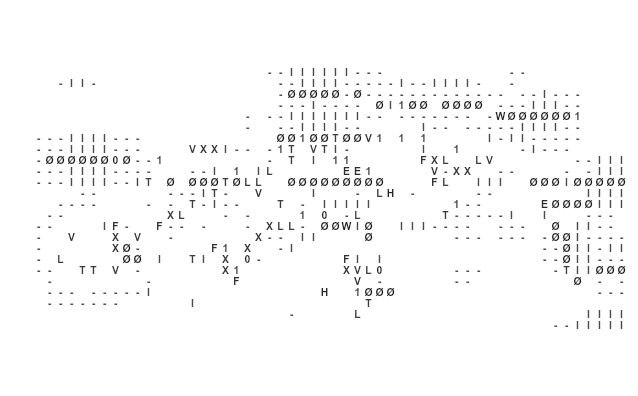
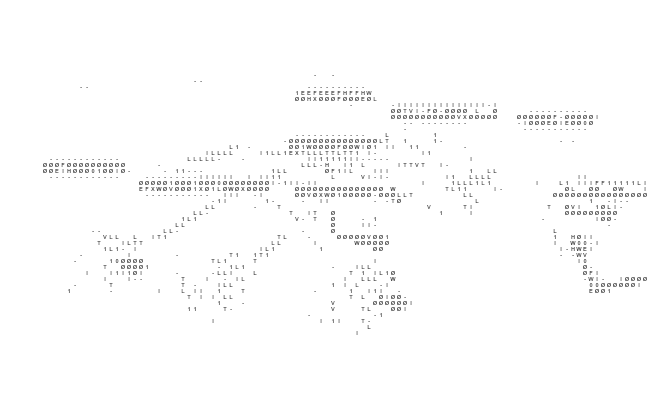
Resolve screenshot thumbnails with a finer grid
A before/after sheet at true card width (tools/before-after.mjs, added here)
made the honest verdict obvious: isolated photo subjects read well, but the
screenshot-based thumbnails were scattered marks rather than pictures.

The cause was grid resolution, not parameters. Screenshots carry their meaning
in fine detail, and at 58 columns that detail falls below the sampling grid.
Raising columns while lowering cell width keeps the output roughly the same
physical size while letting structure resolve:

  portfolio         150 cols  ->  "hey, i'm Ryan Wang" is legible
  waterloowash      130 cols  ->  phone frame and the "12" resolve
  canopi            120 cols  ->  map pill cluster resolves
  self-driving-car  110 cols  ->  costmap blobs and the path line resolve
  mars-rover        110 cols
  molehunt           90 cols

Isolated subjects (robot-hand, vex, card-dealer, smart-home, tronring) stay
coarse at 58. Their silhouette is the content; a fine grid turns them into a
grey photograph and loses the typographic character that made them work.

Changing the grid changes the output PNG size, and src/data/projects.ts
carries those dimensions so next/image can reserve layout. Six projects were
left with stale values, silently reintroducing the layout shift those fields
exist to prevent. Added tools/sync-dims.mjs to push real sizes into the data,
and R4b to verify-page.mjs so drift fails loudly instead of quietly. The
acceptance suite is now 8/8 against the running site.
[…]

diff --git a/src/data/projects.ts b/src/data/projects.ts
@@ -4,8 +4,8 @@ export const projects: Project[] = [
   {
     slug: "canopi",
     asciiSrc: "/assets/projects/canopi/ascii.png",
-    asciiWidth: 638,
-    asciiHeight: 484,
+    asciiWidth: 600,
+    asciiHeight: 450,
     category: "software" as const,
     imageSrc: "/assets/projects/canopi/canopi.png",
     imageWidth: 3839,
@@ -87,8 +87,8 @@ export const projects: Project[] = [
   {
     slug: "waterloowash",
     asciiSrc: "/assets/projects/waterloowash/ascii.png",
-    asciiWidth: 638,
-    asciiHeight: 847,
+    asciiWidth: 650,
+    asciiHeight: 865,
     category: "software" as const,
     hidden: true, // only shown once unlocked via the secret recruiter subdomain
     imageSrc: "/assets/projects/waterloowash/cover.png",
@@ -148,8 +148,8 @@ export const projects: Project[] = [
   {
     slug: "self-driving-car",
     asciiSrc: "/assets/projects/self-driving-car/ascii.png",
-    asciiWidth: 638,
-    asciiHeight: 638,
+    asciiWidth: 660,
+    asciiHeight: 660,
     category: "software" as const,
     hidden: true, // only shown once unlocked via the secret recruiter subdomain
     imageSrc: "/assets/projects/self-driving-car/cover.png",
@@ -168,8 +168,8 @@ export const projects: Project[] = [
   {
     slug: "mars-rover",
     asciiSrc: "/assets/projects/mars-rover/ascii.png",
-    asciiWidth: 638,
-    asciiHeight: 396,
+    asciiWidth: 660,
+    asciiHeight: 414,
     pinned: true, // sits at the top of the right column
     category: "both" as const,
     hidden: true, // only shown once unlocked via the secret recruiter subdomain
@@ -196,8 +196,8 @@ export const projects: Project[] = [
   {
     slug: "portfolio",
     asciiSrc: "/assets/projects/portfolio/ascii.png",
-    asciiWidth: 638,
-    asciiHeight: 847,
+    asciiWidth: 600,
+    asciiHeight: 800,
     category: "software" as const,
     hidden: true, // only shown once unlocked via the secret recruiter subdomain
     imageSrc: "/assets/projects/personal-site/cover.png",
@@ -212,8 +212,8 @@ export const projects: Project[] = [
   {
     slug: "molehunt",
     asciiSrc: "/assets/projects/molehunt/ascii.png",
-    asciiWidth: 638,
-    asciiHeight: 484,
+    asciiWidth: 630,
+    asciiHeight: 476,
     category: "software" as const,
     hidden: true, // only shown once unlocked via the secret recruiter subdomain
     imageSrc: "/assets/projects/molehunt/cover.png",

diff --git a/tools/README.md b/tools/README.md
@@ -111,3 +111,25 @@ R7 is scoped to asset traffic.
 
 `playwright-core` lives in `tools/vendor/` alongside `@napi-rs/canvas` and uses
 the system Chrome, so it never enters the app's dependency tree.
+
+## Grid resolution is per source type
+
+The single most important tuning decision, and it is not a slider:
+
+- **Isolated photo subjects** (robot-hand, vex, card-dealer, smart-home,
+  tronring) stay coarse at `cols: 58`. Their silhouette *is* the content. A
+  fine grid turns them into a grey photograph and loses the typographic look.
+- **Screenshots** need a fine grid, because their meaning lives in small
+  detail. At 58 columns the portfolio cover was scattered marks; at
+  `cols: 150, cellW: 4` it reads "hey, i'm Ryan Wang". Likewise waterloowash
+  (phone frame and the "12"), canopi (map pill cluster) and self-driving-car
+  (costmap blobs and the path line).
+
+`cols` and `cellW` move together: raising columns while lowering cell width
+keeps the output roughly the same physical size while letting structure
+resolve.
+
+**After changing `cols`/`cellW`, run `node tools/sync-dims.mjs`.** The output
+PNG changes size, and `src/data/projects.ts` carries those dimensions for
+`next/image` to reserve layout. A stale pair silently reintroduces layout
+shift. R4b in `verify-page.mjs` now fails loudly if they drift.
